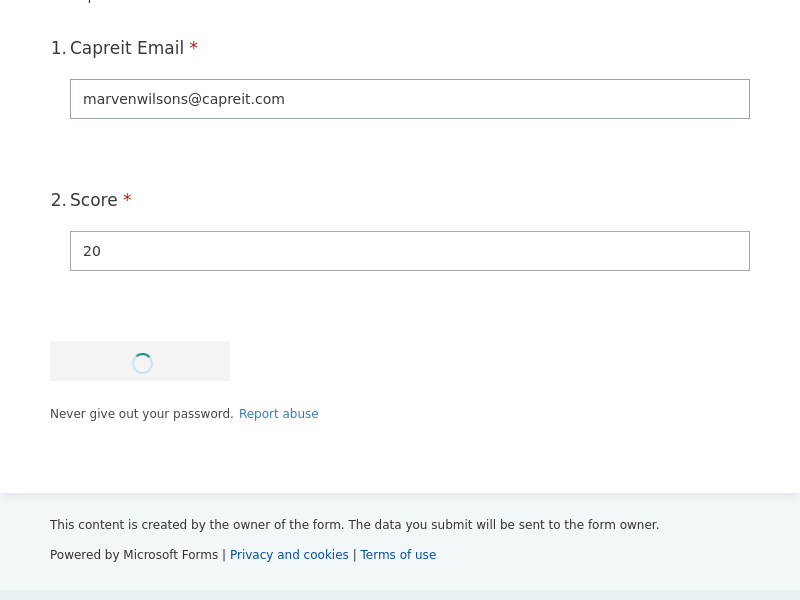
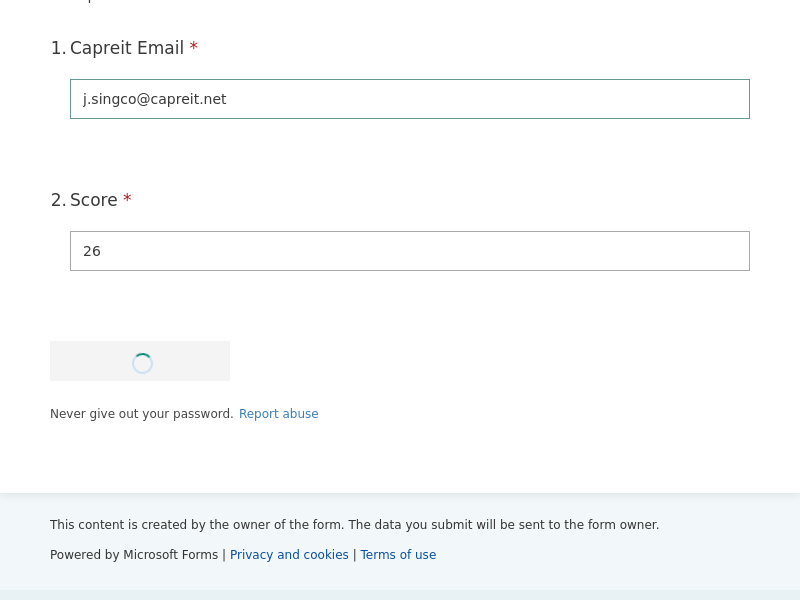
before googlesheets

Changed region(s): [[0.0938, 0.15, 0.3438, 0.18]]

diff --git a/components/tl-game.vue b/components/tl-game.vue
@@ -44,7 +44,7 @@
                     <div class="flex" >
                         <v-scroll-x-transition>
                             <div v-if="mounted1" id="mainContent" class="pad125 borderRad4 nodeShadow-w" >
-                                <!-- <span class="cw ps" >Player: {{info.player}}</span> -->
+                                <span class="cw ps" >Player: {{info.player}}</span>
                             </div>
                         </v-scroll-x-transition>
                         <v-scroll-y-transition>
@@ -142,7 +142,14 @@
                                 Play Again
                             </h6>
                             <h6>|</h6>
-                            <h6 v-if="playAgain" class="cw pointer marginleft125 ps gbtn" >Submit</h6>
+                            <h6 v-if="playAgain" class="cw pointer marginleft125 ps gbtn" >
+                                <div @click="submitScore" v-if="!isSubmitting" >Submit</div>
+                                <div v-if="isSubmitting" 
+                                    style="font-size:40px; width: 100px;height:40px;text-align:center;" 
+                                    class="flex flexcenter loader">
+                                    <span >&#11118;</span>
+                                </div>
+                            </h6>
                         </v-flex>
                     </div>
     
@@ -199,7 +206,8 @@ export default {
         totalScore: undefined,
         show_totalScore: false,
 
-        playAgain: false
+        playAgain: false,
+        isSubmitting:false
     }),
     mounted() {
         // test 1
@@ -454,8 +462,6 @@ export default {
 
                     this.totalScore = this.score
 
-                    this.submitScore()
-
                     // restore defaults
                     this.gameIsDone = true
                     this.countDown = 59
@@ -488,9 +494,10 @@ export default {
         },
         submitScore() {
             // todo
+            this.isSubmitting  = true
             const url = undefined
             const ctx = {
-                email: '',
+                email: this.info.capreit_email,
                 score: this.score
             }
             const options = {
@@ -500,6 +507,10 @@ export default {
                     'Content-Type': 'application/json'
                 }
             }
+
+            fetch('/cap/sc',options)
+                .then(res => res.json())
+                .then(res => console.log(res));
         },
         //  onGaming
         nextItem(val) {
@@ -619,5 +630,13 @@ export default {
 .gbtn:hover {
     color: yellowgreen;
     text-shadow: 2px 2px #f03304;
+}
+.loader {
+  animation: spin 2s linear infinite;
+}
+
+@keyframes spin {
+  0% { transform: rotate(0deg); }
+  100% { transform: rotate(360deg); }
 }
 </style>

diff --git a/server/cap.js b/server/cap.js
@@ -4,21 +4,20 @@ const puppeteer = require('puppeteer');
 
 // console.log('cap.js')
 
-router.post('sc',(req,res) => {
-    console.log(req.body)
-    // (async () => {
-    //     const browswer = await puppeteer.launch()
-    //     const page = await browswer.newPage()
-    //     await page.goto('https://forms.office.com/Pages/ResponsePage.aspx?id=7ktcUTdBnEKsodR3O_zQP5333xr1QM1PgIMjtpRPpdZUN1lCQUVDV0ZDVTNUN1ZBTDVLWVZPMlRJWS4u')
+router.post('/sc',(req,res) => {
+    (async () => {
+        const browswer = await puppeteer.launch()
+        const page = await browswer.newPage()
+        await page.goto('https://forms.office.com/Pages/ResponsePage.aspx?id=7ktcUTdBnEKsodR3O_zQP5333xr1QM1PgIMjtpRPpdZUN1lCQUVDV0ZDVTNUN1ZBTDVLWVZPMlRJWS4u')
     
-    //     await page.type("input[placeholder='Enter your answer']", `marvenwilsons@capreit.com`)
-    //     await page.type("input[placeholder='The value must be a number']", '20')
+        await page.type("input[placeholder='Enter your answer']", `${req.body.email}`)
+        await page.type("input[placeholder='The value must be a number']", `${req.body.score}`)
     
-    //     await page.click('.office-form-bottom-button')
-    //     await page.screenshot({path: 'example.png'})
+        await page.click('.office-form-bottom-button')
+        await page.screenshot({path: 'example.png'})
     
-    //     await browswer.close()
-    // })()
+        await browswer.close()
+    })()
 })
 
 

diff --git a/pages/index.vue b/pages/index.vue
@@ -9,11 +9,12 @@ import tlStart from '@/components/tl-start.vue'
 import tlPreGame from '@/components/tl-pre-game.vue'
 import tlGame from '@/components/tl-game.vue'
 import tlPreGame2 from '@/components/tl-pre-game-2.vue'
+// import * as firebase from 'firebase'
 
 export default {
 	data: () => ({
 		html2canvas: undefined,
-		view: 'tl-game',
+		view: 'tl-start',
 		info: undefined
 	}),
 	components: {
@@ -34,6 +35,8 @@ export default {
 			console.log('reseting')
 			this.view = 'tl-pre-game2'
 		}
+	},
+	mounted() {
 	}
 }
 </script>

diff --git a/components/animatxt.vue b/components/animatxt.vue
@@ -20,9 +20,9 @@ export default {
         const pling = document.getElementById('pling')
         const ing = document.getElementById('ing')
 
-        ding.volume = 0.5
-        pling.volume = 0.3
-        ing.volume = 0.2
+        ding.volume = 0.4
+        pling.volume = 0.1
+        ing.volume = 0.1
 
         const playSound = () => {
             ding.currentTime = 0.0

diff --git a/store/index.js b/store/index.js
@@ -1,0 +1,5 @@
+const mutations = {
+    nuxtServerInit() {
+        console.log('hello')
+    }
+}
